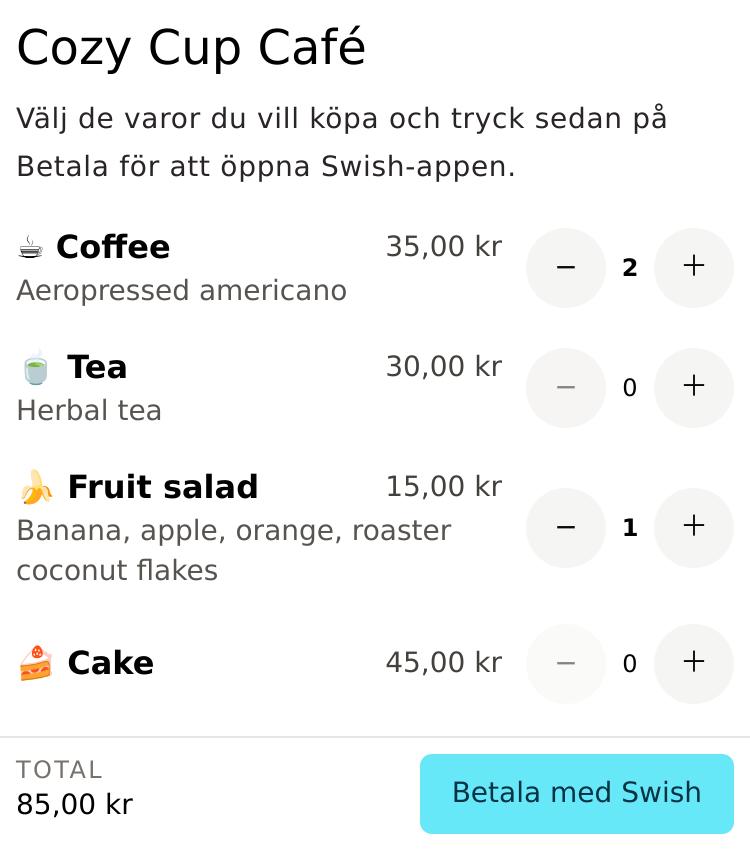
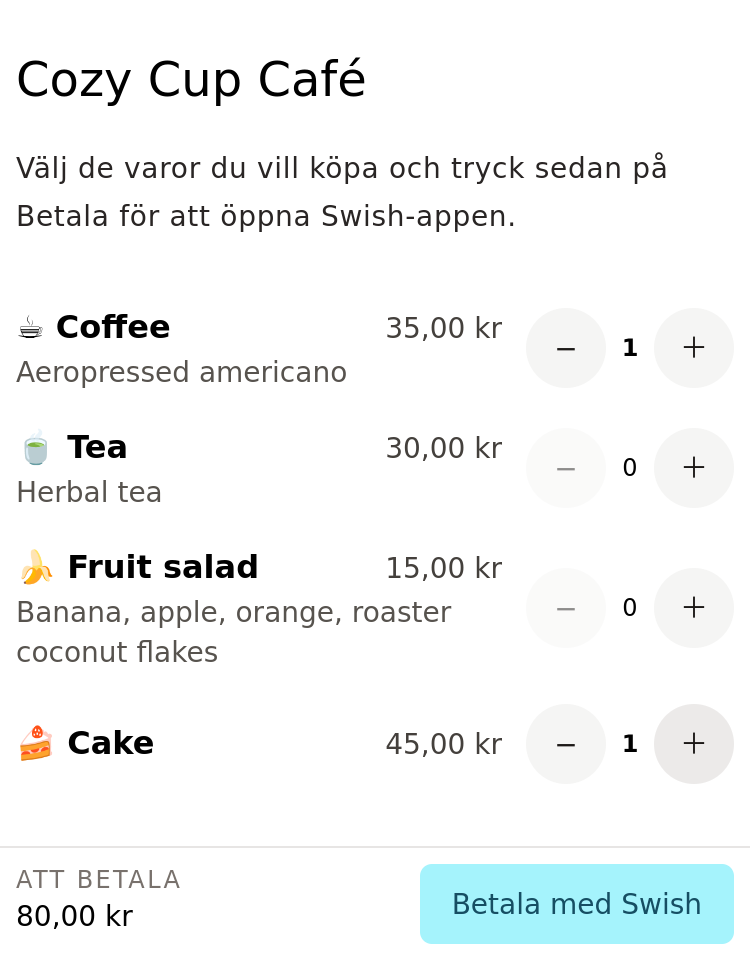
Design adjustments

diff --git a/app/page.tsx b/app/page.tsx
@@ -23,8 +23,9 @@ export default function Home() {
             Skapa en ny Shop
           </Button>
         </div>
+
         <div className="">
-          <h3 className="text-sm tracking-wider">Exempel</h3>
+          <h3 className="text-sm tracking-wider text-gray-600">Exempel</h3>
           <div className="flex gap-1">
             <Button className="w-full" as="a" href={`/shop/${demoURL}`}>
               Café
@@ -32,19 +33,20 @@ export default function Home() {
             <Button className="w-full">Marknad</Button>
           </div>
         </div>
-        <div className="flex justify-center">
-          <div className="border-2 p-4 border-primary-400 rounded-2xl shadow-lg">
-            {/* <div className="bg-gradient-to-r p-0.5 rounded-2xl from-cyan-400 via-green-400  to-pink-500"> */}
-            <Image
-              className="rounded-xl"
-              alt="Swisher screenshot"
-              width={375}
-              height={425}
-              src={`/swisher.png`}
-            />
+        <div className="py-16">
+          <div className="flex justify-center">
+            <div className="border-2 p-4 border-primary-400 rounded-2xl shadow-lg">
+              {/* <div className="bg-gradient-to-r p-0.5 rounded-2xl from-cyan-400 via-green-400  to-pink-500"> */}
+              <Image
+                className="rounded-xl"
+                alt="Swisher screenshot"
+                width={375}
+                height={425}
+                src={`/swisher.png`}
+              />
+            </div>
           </div>
         </div>
-
         <footer className="pt-8 text-xs flex flex-col items-center">
           <div>
             Swisher är gratis &{" "}

diff --git a/app/_components/ui/Button.tsx b/app/_components/ui/Button.tsx
@@ -4,7 +4,7 @@ import { createComponent } from ".";
 export const Button = createComponent(
   "button",
   tv({
-    base: "inline-flex items-center justify-center whitespace-nowrap rounded-md text-sm font-medium ring-offset-background transition-colors focus-visible:outline-none focus-visible:ring-2 focus-visible:ring-ring focus-visible:ring-offset-2 disabled:pointer-events-none disabled:opacity-50",
+    base: "inline-flex transition-200 items-center justify-center whitespace-nowrap rounded-md text-sm font-medium ring-offset-background transition-colors focus-visible:outline-none focus-visible:ring-2 focus-visible:ring-ring focus-visible:ring-offset-2 disabled:pointer-events-none disabled:opacity-50",
     variants: {
       variant: {
         primary: "bg-primary-200 text-primary-900 hover:bg-primary-300/80 ",

diff --git a/app/shop/[encoded]/page.tsx b/app/shop/[encoded]/page.tsx
@@ -16,8 +16,8 @@ export default function ShopPage(props: { params: { encoded: string } }) {
     <>
       <div className="p-2">
         <ShopHeader shop={shop} encoded={encoded} />
-        <h1 className="text-2xl mb-2">{shop.name}</h1>
-        <p className="text-gray-800 text-sm leading-6 tracking-wide">
+        <h1 className="text-2xl pt-4 pb-4">{shop.name}</h1>
+        <p className="text-gray-800 text-sm leading-6 tracking-wide mb-4">
           Välj de varor du vill köpa och tryck sedan på Betala för att öppna
           Swish-appen.
         </p>

diff --git a/app/_components/cart.tsx b/app/_components/cart.tsx
@@ -73,7 +73,7 @@ export function Cart({ shop }: { shop: Shop }) {
       <div className="flex justify-between border-t bg-white p-2">
         <div>
           <div className="text-xs uppercase tracking-widest text-gray-500">
-            Total
+            Att betala
           </div>
           <div className="text-sm">{formatMoney(totalAmount, "sek")}</div>
         </div>

diff --git a/app/_components/shop-header.tsx b/app/_components/shop-header.tsx
@@ -20,7 +20,7 @@ export function ShopHeader({ shop, encoded }: { encoded: string; shop: Shop }) {
   return (
     <header className="flex gap-2 items-center justify-between mb-2">
       <Button as={Link} href="/shop/new">
-        ← Redigera
+        ‹ Redigera
       </Button>
       <Button as={Link} href={`/shop/${encoded}/qr`} target="_blank">
         Visa QR
